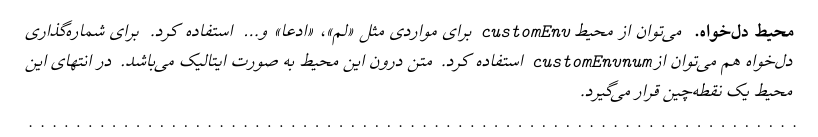
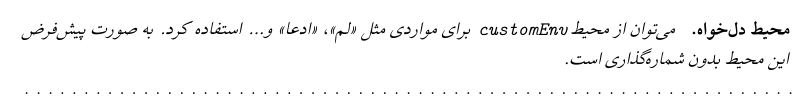
updated the tutorial on customEnv

Changed region(s): [[0.0311, 0.3853, 0.9963, 0.7431], [0.0, 0.1376, 0.9963, 0.3853], [0.0311, 0.9083, 0.9651, 0.9358]]

diff --git a/examples/main.tex b/examples/main.tex
@@ -28,17 +28,15 @@
 \begin{customEnv}{محیط دلخواه}
 	میتوان از محیط
 	\texttt{customEnv}
-	برای مواردی مثل «لم»، «ادعا» و... استفاده کرد. برای شمارهگذاری دلخواه هم میتوان از
-	\texttt{customEnvnum}
-	استفاده کرد. متن درون این محیط به صورت ایتالیک میباشد. در انتهای این محیط یک نقطهچین قرار میگیرد.
+	برای مواردی مثل «لم»، «ادعا» و... استفاده کرد. به صورت پیشفرض این محیط بدون شمارهگذاری است.
 \end{customEnv}
-\begin{proof}
-	پس از محیطی مانند
-	\textbf{لم}
-	یا
-	\textbf{ادعا}
-	معمولاً لازم است اثباتی برای آن آوردهشود.\\
-	مشابه محیط راهحل، در انتهای محیط اثبات یک 
-	$\square$
-	در پایان آخرین خط قرار میگیرد. پس از متن اثبات نیز نقطهچین اضافه میشود.
-\end{proof}
+\begin{customEnv}[]{محیط عددی}
+	با استفاده از
+	\texttt{[]}
+	برای محیط
+	\texttt{customEnv},
+	محیط تعریفشده شمارهگذاری میشود.
+\end{customEnv}
+\begin{customEnv}[]{محیط عددی}
+	با استفادهٔ مجدد از یک محیط شمارهگذاریشده، شمارهٔ آن افزایش مییابد. میتوان تا ۴ محیط عددی با اسمهای مختلف تعریف کرد.
+\end{customEnv}
